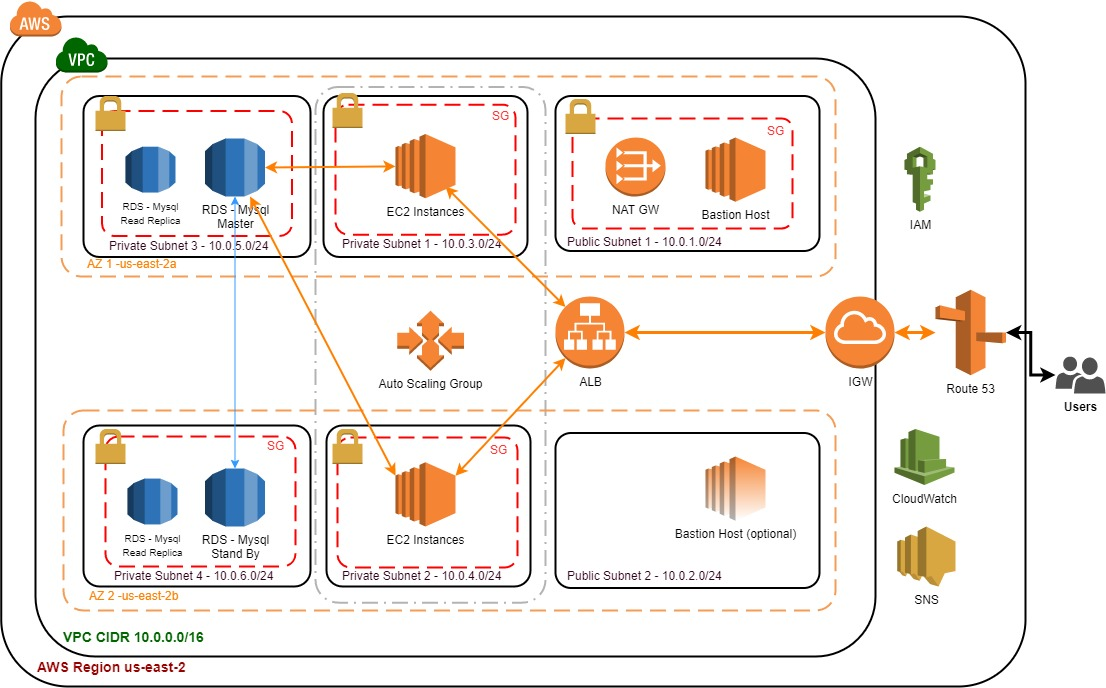
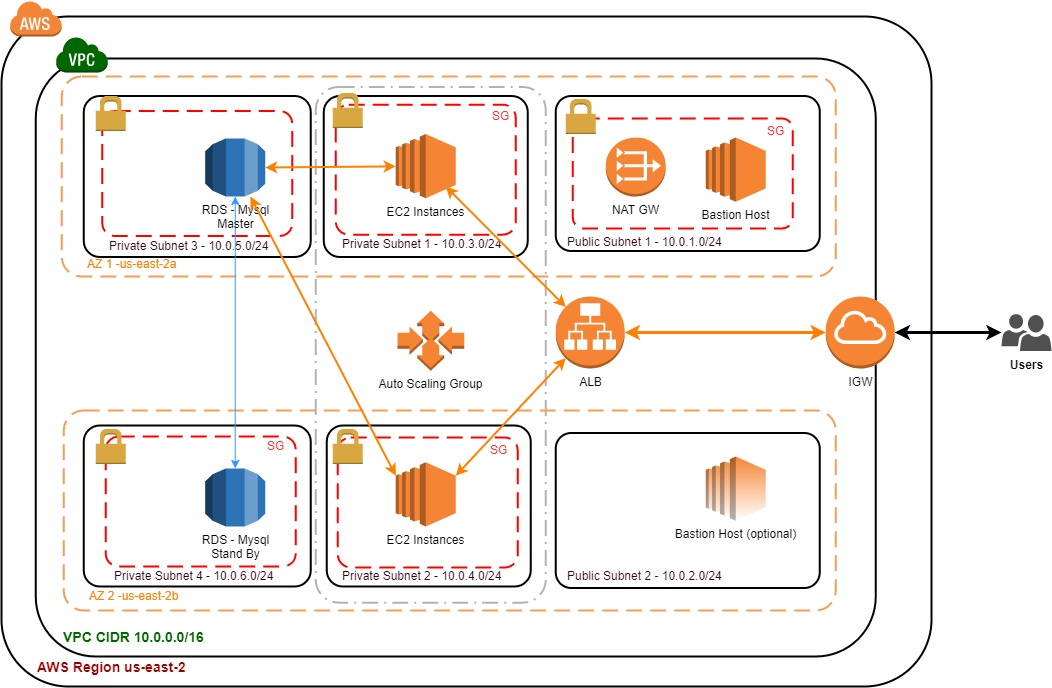
new diagram and readme file

diff --git a/README.md b/README.md
@@ -1,49 +1,38 @@
 # aws-infra
 AWS Infrastructure which includes Web app + RDS + all the bits and pieces that make it highly available, secured, resilient, automated.
 
-## Requirements
-
-1. Create a WordPress Web Site on hosted in AWS with a backend mysql (or postgresql) DB.
-2. Make sure the Web/application and DB tiers are highly redundant/available and fault tolerant.
-3. The DB and web servers should be able to access the internet but incoming internet traffic to them should be blocked.
-4. Provide the Web and DB instances logging and alarming via Cloudwatch (elaborate a bit more on this).
-5. Generate email notifications once any of the hosts exceeds 90% CPU usage, it is termated or becomes unavailable.
-6. Networking:
-	- Use a VPC class B
-	- Use multiple subnets class C
-	- Use load Balancing
-	- Restrict unnecesary ports and source IPs/networks. Only set up the minimun necesary
-	- Consider Location Redundancy
-	- Restrict direct access to the hosts from internet. 
-7. Security:
-	- Make sure only admin users can create, modify or delete infra.
-	- Give infra read access mode to relavant services and infra.
-	- Use roles when necessary.
-	- If possible protect from DDOS and flooding attacks.
-	- Monitor who makes changes to the infraestructure.
-
-
-## Proposed architecture
+## Diagram
 
 ![Diagram](https://github.com/carloshz4/aws-infra/blob/master/AWS-Infra.jpg)
 
 
+## Cloudformation template
 
-## Solution
+The following CF template builds the architecture represented in the diagram above:
 
-Besides what is clear in the diagram, the proposed solution will consider:
+''
+php-mysql-vpc.yml
+''
 
-**Networking and Security**:
-- Routes and Routing tables.
-- Restrict unnecessary incoming traffic via Security Groups and Network Access Control Lists.
-- Provide egress (only) internet access to the ec2 and RDS instances via NAT GW.
-- Provide ssh access to the EC2 instances only via Bastion host.
-- Protection from DDOS and flooding attacks via AWS Shield and WAF.
-- Enable Cloudtrail to monitor the activity of the IAM users.
 
-**General functionalities**:
-- Web instances part of the Auto Scaling Group will have a minimum of one instance per Availability Zone and scale out once the CPU usage is above 80% for more than 5min. On the other hand, the group will scale in once CPU usage is below 20% for more than 20min.
-- A first manually built image of the Web instance may be required to define the launch template of the autoscaling group. 
+## Explanation
 
-**Automation**:
-Most of the creation of the whole infra will be automated via Cloudformation. Some manual steps may be required as prerequisites to later create the Cloudformation stack. More details as the project progresses.
+The CF template:
+
+1. Creates a basic php Web Site hosted on AWS with a backend mysql DB (using RDS). It basically automates the manual creating followed in this page:
+![Php-mysql](https://docs.aws.amazon.com/AmazonRDS/latest/UserGuide/CHAP_Tutorials.WebServerDB.CreateWebServer.html)
+2. The web servers and DB are located on private networks and highly available.
+3. The web servers launch as part of an autoscaling group and its setup and connection to the DB is done when booting up.
+4. An application load balancer is used to distribute the traffic.
+5. In terms of networking these elements are created to alocate the resources: VPC, Subnets, IGW, NAT GW, RT.
+6. In terms of security SG were created with restricted ports, servers cannot be access directly from internet but via a bastion host.
+
+
+## Pre-requisites
+
+1. Make sure you have a key pair created in the Region where you'll launch your CF Stack.
+2. Create a user with enough privileges to launch the stack along with the different objects.
+3. At the moment the template has the list of AMIs for each region. This ids may change in the future and will have to be listed again and included in the template. This could potentially be automated somehow. To get that list run the script **getaims.sh** in this repo. Note it used AWS cli. You need to provide the AMI name for instance:
+''./getaims.sh amzn-ami-hvm-2018.03.0.20200318.1-x86_64-gp2''
+
+Note it's important to use an Amazon Linux AMI (generation I), otherwise the bootstrap script won't work.

diff --git a/README-fullANDdetailed.md b/README-fullANDdetailed.md
@@ -1,0 +1,49 @@
+# aws-infra
+AWS Infrastructure which includes Web app + RDS + all the bits and pieces that make it highly available, secured, resilient, automated.
+
+## Requirements
+
+1. Create a basic php Web Site hosted on AWS with a backend mysql DB.
+2. Make sure the Web/application and DB tiers are highly redundant/available and fault tolerant.
+3. The web servers should be able to access the internet but incoming internet traffic to them should be blocked.
+4. Provide the Web and DB instances logging and alarming via Cloudwatch (elaborate a bit more on this).
+5. Generate email notifications once any of the hosts exceeds 90% CPU usage, it is terminated or becomes unavailable.
+6. Networking:
+	- Use a VPC class B
+	- Use multiple subnets class C
+	- Use load Balancing
+	- Restrict unnecesary ports and source IPs/networks. Only set up the minimun necesary
+	- Consider Location Redundancy
+	- Restrict direct access to the hosts from internet. 
+7. Security:
+	- Make sure only admin users can create, modify or delete infra.
+	- Give infra read access mode to relavant services and infra.
+	- Use roles when necessary.
+	- If possible protect from DDOS and flooding attacks.
+	- Monitor who makes changes to the infraestructure.
+
+
+## Proposed architecture
+
+![Diagram](https://github.com/carloshz4/aws-infra/blob/master/AWS-Infra-endGoal.jpg)
+
+
+
+## Solution
+
+Besides what is clear in the diagram, the proposed solution will consider:
+
+**Networking and Security**:
+- Routes and Routing tables.
+- Restrict unnecessary incoming traffic via Security Groups and Network Access Control Lists.
+- Provide egress (only) internet access to the ec2 and RDS instances via NAT GW.
+- Provide ssh access to the EC2 instances only via Bastion host.
+- Protection from DDOS and flooding attacks via AWS Shield and WAF.
+- Enable Cloudtrail to monitor the activity of the IAM users.
+
+**General functionalities**:
+- Web instances part of the Auto Scaling Group will have a minimum of one instance per Availability Zone and scale out once the CPU usage is above 80% for more than 5min. On the other hand, the group will scale in once CPU usage is below 20% for more than 20min.
+- A first manually built image of the Web instance may be required to define the launch template of the autoscaling group. 
+
+**Automation**:
+Most of the creation of the whole infra will be automated via Cloudformation. Some manual steps may be required as prerequisites to later create the Cloudformation stack. More details as the project progresses.
